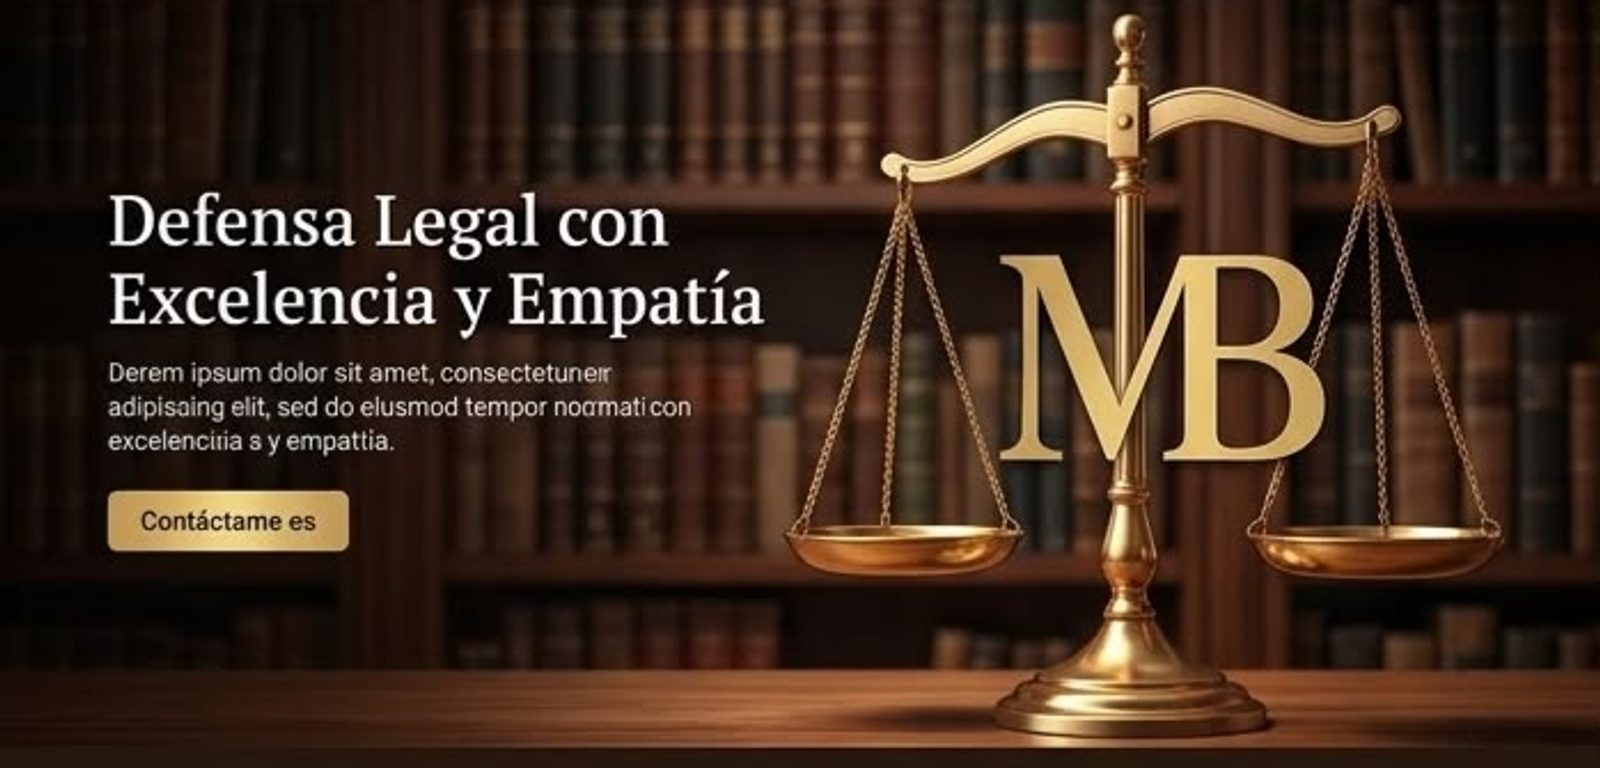
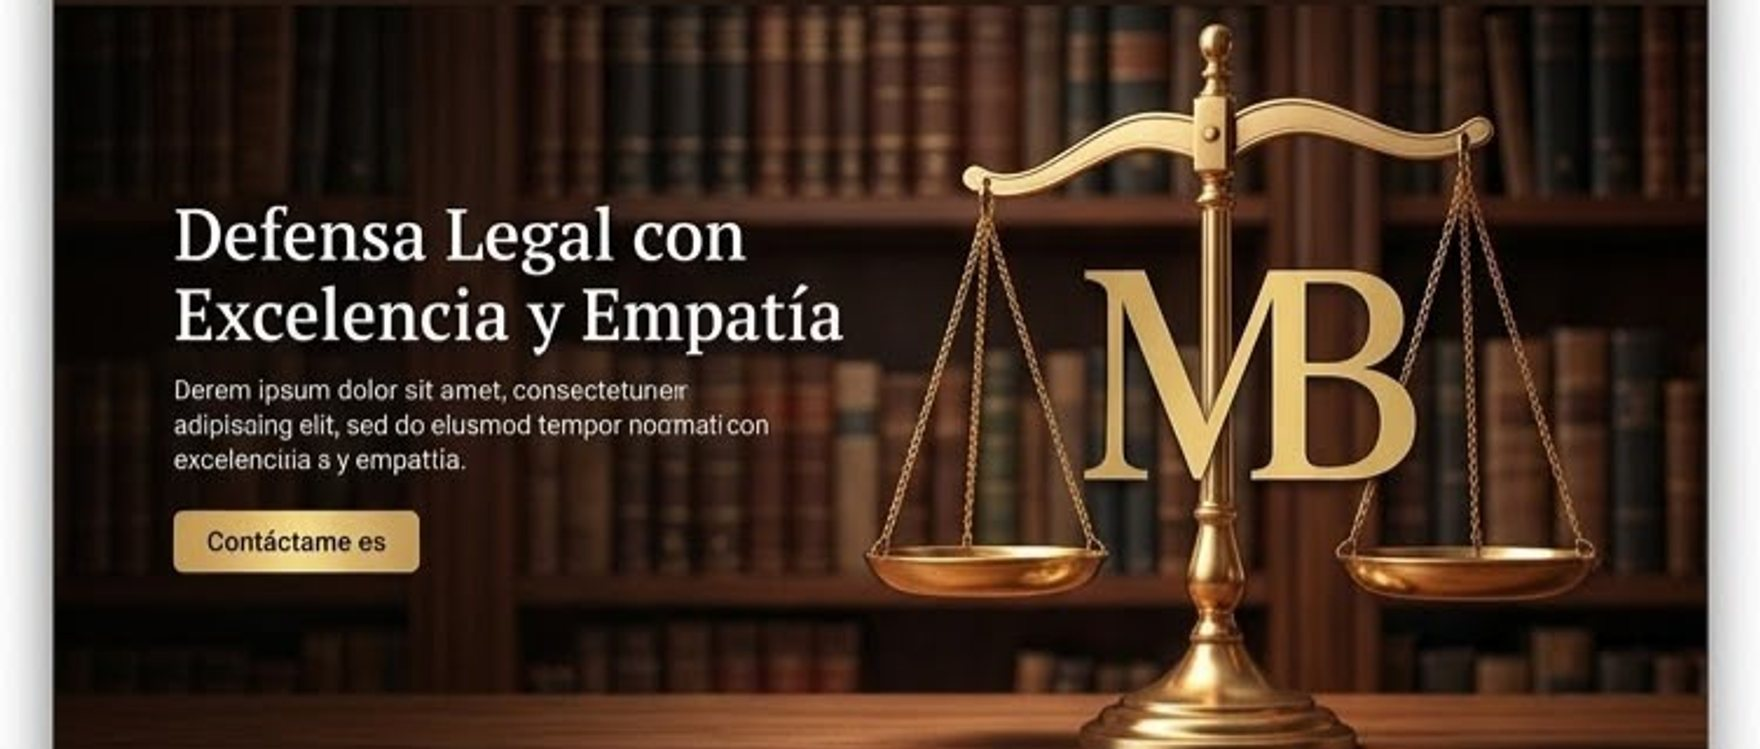
fix(brand): match the home hero and navbar to banner_app.jpeg
- Layout: header is now dark (bg-ink) with white nav text and a gold
  active pill / gold "Contactar" button, matching banner_app's navbar
  instead of the previous light header. Applies site-wide so the header
  reads as one continuous dark block with the home hero, as in the
  reference image.
- brand: re-crop the hero banner photo directly from banner_app.jpeg
  (previously cropped from reference_app.jpeg), matching its warmer
  lighting and framing more closely.

Verified locally with `npm run build` and Chromium screenshots of the
home hero and a secondary page (dark header over light content).

Claude-Session: https://claude.ai/code/session_0137JXbuftGE2W3Z9ivdEKWj

diff --git a/src/components/Layout.tsx b/src/components/Layout.tsx
@@ -32,7 +32,7 @@ export function Layout() {
 
   return (
     <div className="min-h-dvh flex flex-col">
-      <header className="sticky top-0 z-40 border-b border-line bg-paper/85 backdrop-blur">
+      <header className="sticky top-0 z-40 border-b border-black/20 bg-ink/95 text-white backdrop-blur">
         <div className="container-x flex h-16 items-center justify-between gap-4">
           <Link to="/" className="flex items-center gap-2 font-display font-semibold tracking-tight">
             <img src={mbLogo} alt="" className="h-9 w-9 shrink-0 rounded-full" />
@@ -48,7 +48,7 @@ export function Layout() {
                 className={({ isActive }) =>
                   cn(
                     'rounded-full px-3 py-1.5 text-sm transition-colors',
-                    isActive ? 'bg-ink text-white' : 'text-ink-soft hover:text-ink hover:bg-white',
+                    isActive ? 'bg-accent text-ink' : 'text-white/75 hover:bg-white/10 hover:text-white',
                   )
                 }
               >
@@ -60,11 +60,11 @@ export function Layout() {
           <div className="flex items-center gap-2">
             <button
               onClick={openSearch}
-              className="hidden sm:inline-flex items-center gap-2 rounded-full border border-line-strong px-3 py-1.5 text-sm text-muted hover:border-ink hover:text-ink"
+              className="hidden sm:inline-flex items-center gap-2 rounded-full border border-white/20 px-3 py-1.5 text-sm text-white/70 hover:border-white/50 hover:text-white"
             >
               <Icon name="search" size={15} />
               Buscar
-              <kbd className="ml-1 rounded border border-line-strong bg-white px-1.5 text-[11px] font-sans text-muted">
+              <kbd className="ml-1 rounded border border-white/20 bg-white/10 px-1.5 text-[11px] font-sans text-white/70">
                 ⌘K
               </kbd>
             </button>
@@ -73,7 +73,7 @@ export function Layout() {
             </ButtonLink>
             <button
               onClick={() => setOpen((v) => !v)}
-              className="md:hidden grid h-9 w-9 place-items-center rounded-lg border border-line-strong"
+              className="md:hidden grid h-9 w-9 place-items-center rounded-lg border border-white/20 text-white"
               aria-label="Abrir menú"
               aria-expanded={open}
             >
@@ -83,7 +83,7 @@ export function Layout() {
         </div>
 
         {open && (
-          <div className="md:hidden border-t border-line bg-paper">
+          <div className="md:hidden border-t border-white/10 bg-ink">
             <nav className="container-x flex flex-col py-3">
               {NAV.map((item) => (
                 <NavLink
@@ -93,7 +93,7 @@ export function Layout() {
                   className={({ isActive }) =>
                     cn(
                       'rounded-lg px-3 py-2.5 text-sm',
-                      isActive ? 'bg-ink text-white' : 'text-ink-soft',
+                      isActive ? 'bg-accent text-ink' : 'text-white/75',
                     )
                   }
                 >
@@ -103,7 +103,7 @@ export function Layout() {
               <div className="mt-2 flex gap-2 px-1">
                 <button
                   onClick={openSearch}
-                  className="flex-1 rounded-lg border border-line-strong px-3 py-2.5 text-sm text-muted"
+                  className="flex-1 rounded-lg border border-white/20 px-3 py-2.5 text-sm text-white/70"
                 >
                   Buscar (⌘K)
                 </button>
